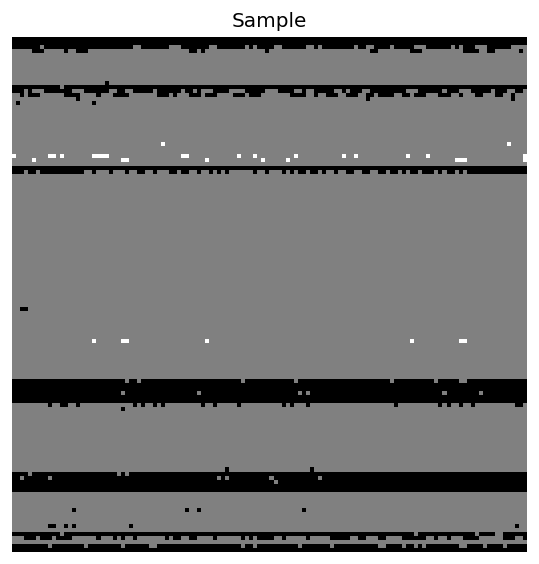
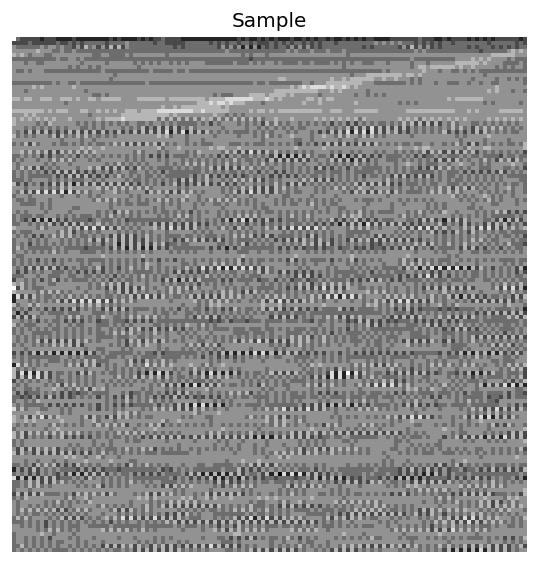
Refactor task handling in JSSP and SAT training; remove regression support and update related documentation

Changed region(s): [[0.0, 0.0603, 0.9796, 0.9947]]

diff --git a/src/training/jssp_tensors/model_builder.py b/src/training/jssp_tensors/model_builder.py
@@ -18,6 +18,7 @@ def build_cnn(
     conv_filters: list[int] = [32, 64, 128],
     conv_kernel_size: int = 3,
     pool_size: int = 2,
+    dropout_conv: float = 0.25,
     dropout_dense: float = 0.4,
     dense_units: int = 256,
     learning_rate: float = 1e-3,
@@ -25,19 +26,25 @@ def build_cnn(
     """
     Build and compile CNN for JSSP tensor inputs.
  
-    Architecture optimized for 10x10x2 inputs:
-    - Multiple Conv2D + MaxPooling2D blocks
-    - Flatten
-    - Dense layer with dropout
-    - Task-specific output layer
+    Architecture (CONVJSSP-inspired, no pooling):
+    - Alternating Conv2D and DepthwiseConv2D blocks
+      (Conv2D -> DepthwiseConv2D -> Conv2D -> DepthwiseConv2D -> ...)
+    - Spatial reduction (when needed) is performed via strides in the
+      depthwise convolutions instead of pooling (CONVJSSP philosophy).
+    - Dropout after convolutional blocks and dense layer for MC-dropout-based
+      uncertainty estimation.
+    - Task-specific output head:
+      * classification: softmax over solvers
+      * multilabel: sigmoid per solver
  
     Args:
         input_shape: Shape of input tensors (max_jobs, max_machines, n_channels).
         output_dim: Number of output units.
         task: Task type ('classification' or 'multilabel').
-        conv_filters: List of filter counts for Conv2D layers.
-        conv_kernel_size: Kernel size for convolutions.
-        pool_size: Pool size for MaxPooling2D.
+        conv_filters: List of filter counts for Conv2D blocks.
+        conv_kernel_size: Kernel size for Conv2D / DepthwiseConv2D.
+        pool_size: Kept for backward compatibility (ignored; no pooling used).
+        dropout_conv: Dropout rate applied after each depthwise block.
         dropout_dense: Dropout rate after dense layer.
         dense_units: Number of units in dense layer.
         learning_rate: Learning rate for Adam.
@@ -46,27 +53,59 @@ def build_cnn(
         Compiled Keras model.
     """
     if task not in ["classification", "multilabel"]:
-        raise ValueError(f"Invalid task '{task}' for jssp_tensors (only classification/multilabel supported)")
-
+        raise ValueError(
+            f"Invalid task '{task}' for jssp_tensors "
+            f"(only classification/multilabel supported)"
+        )
+ 
     inputs = tf.keras.Input(shape=input_shape, name="tensor_input")
     x = inputs
-
-    # Convolutional blocks
+ 
+    # Normalize convolutional dropout configuration to a per-block list
+    if isinstance(dropout_conv, (int, float)):
+        conv_dropout_rates = [float(dropout_conv)] * len(conv_filters)
+    else:
+        conv_dropout_rates = [float(r) for r in dropout_conv]
+        if len(conv_dropout_rates) < len(conv_filters):
+            conv_dropout_rates += [conv_dropout_rates[-1]] * (
+                len(conv_filters) - len(conv_dropout_rates)
+            )
+        elif len(conv_dropout_rates) > len(conv_filters):
+            conv_dropout_rates = conv_dropout_rates[: len(conv_filters)]
+ 
+    # Convolutional blocks: Conv2D followed by DepthwiseConv2D (no pooling).
+    # For early blocks we use stride=2 in the depthwise layer to reduce the
+    # spatial dimension; the last block keeps stride=1.
     for i, filters in enumerate(conv_filters):
+        # Standard Conv2D
         x = tf.keras.layers.Conv2D(
             filters,
             conv_kernel_size,
             padding="same",
             activation="relu",
-            name=f"conv_{i+1}",
+            name=f"conv_{2 * i + 1}",
         )(x)
-        x = tf.keras.layers.MaxPooling2D(pool_size, name=f"pool_{i+1}")(x)
-
+ 
+        # DepthwiseConv2D with optional downsampling
+        stride = 2 if i < len(conv_filters) - 1 else 1
+        x = tf.keras.layers.DepthwiseConv2D(
+            conv_kernel_size,
+            strides=stride,
+            padding="same",
+            activation="relu",
+            name=f"depthwise_conv_{2 * i + 2}",
+        )(x)
+ 
+        # Dropout for uncertainty estimation (Monte Carlo dropout)
+        x = tf.keras.layers.Dropout(
+            conv_dropout_rates[i], name=f"dropout_conv_{i+1}"
+        )(x)
+ 
     # Flatten and dense
     x = tf.keras.layers.Flatten(name="flatten")(x)
     x = tf.keras.layers.Dense(dense_units, activation="relu", name="dense")(x)
     x = tf.keras.layers.Dropout(dropout_dense, name="dropout_dense")(x)
-
+ 
     # Task-specific output
     if task == "classification":
         outputs = tf.keras.layers.Dense(
@@ -74,20 +113,20 @@ def build_cnn(
         )(x)
         loss = "sparse_categorical_crossentropy"
         metrics = ["accuracy"]
-    elif task == "multilabel":
+    else:  # multilabel
         outputs = tf.keras.layers.Dense(
             output_dim, activation="sigmoid", name="output_sigmoid"
         )(x)
         loss = "binary_crossentropy"
         metrics = [tf.keras.metrics.AUC(curve="PR", name="auc_pr")]
-
+ 
     model = tf.keras.Model(inputs=inputs, outputs=outputs, name=f"cnn_tensor_{task}")
     model.compile(
         optimizer=tf.keras.optimizers.Adam(learning_rate=learning_rate),
         loss=loss,
         metrics=metrics,
     )
-
+ 
     return model
 
 

diff --git a/src/training/jssp_images/data_utils.py b/src/training/jssp_images/data_utils.py
@@ -115,17 +115,17 @@ def build_labels(
 ) -> np.ndarray:
     """
     Generate label matrix/vector according to the task.
-
+ 
     Args:
         df: DataFrame with solver metrics
         solver_cols: Dictionary with 'runtime' and 'score' column lists
-        task: One of 'classification', 'multilabel', or 'regression'
-        use_score: Whether to use score columns for "best" solver
-        time_limit_s: Time limit for multilabel/regression tasks
-
+        task: One of 'classification' or 'multilabel'
+        use_score: Whether to use score columns for "best" solver (classification only)
+        time_limit_s: Time limit for multilabel task
+ 
     Returns:
-        Label array with shape [N] for classification or [N, C] for multi/regression
-
+        Label array with shape [N] for classification or [N, C] for multilabel
+ 
     Raises:
         ValueError: If task is not recognized
     """
@@ -135,23 +135,17 @@ def build_labels(
             idx, _ = argmin_runtime_or_score(r, solver_cols, use_score)
             y.append(idx)
         y = np.array(y, dtype=np.int32)
-
+ 
     elif task == "multilabel":
         rt_cols = solver_cols["runtime"]
         y = np.stack(
             [multilabel_targets(r, rt_cols, time_limit_s) for _, r in df.iterrows()],
             axis=0,
         )
-
-    elif task == "regression":
-        rt_cols = solver_cols["runtime"]
-        y = df[rt_cols].astype(float).values
-        # Impute NaN with large penalty (10x time limit)
-        y[~np.isfinite(y)] = time_limit_s * 10.0
-
+ 
     else:
         raise ValueError(f"Unknown task: {task}")
-
+ 
     return y
 
 
@@ -189,19 +183,19 @@ def make_dataset(
 ) -> tf.data.Dataset:
     """
     Create a tf.data.Dataset for training/validation.
-
+ 
     This function is used by both JSSP and SAT image training pipelines.
     To keep backward compatibility:
-
+ 
     - If ``target_h``/``target_w`` are provided, they take precedence.
     - Otherwise, if ``config`` is provided, values are read from
       ``config["data"]["image"]["target_height"/"target_width"]``.
     - As a last resort, defaults of 128×128 are used.
-
+ 
     Args:
         paths: List of paths to .npy image files
         labels: Label array
-        task: One of 'classification', 'multilabel', or 'regression'
+        task: One of 'classification' or 'multilabel'
         batch_size: Batch size
         shuffle: Whether to shuffle the dataset
         target_h: Target image height (optional; may be derived from config)

diff --git a/src/training/jssp_tensors/training_loop.py b/src/training/jssp_tensors/training_loop.py
@@ -122,7 +122,7 @@ def train_fold(
         if task == "classification":
             y_true_list.append(yb.numpy())
             y_pred_list.append(np.argmax(out, axis=1))
-        elif task == "multilabel":
+        else:  # multilabel
             y_true_list.append(yb.numpy())
             y_score_list.append(out)
             y_pred_list.append((out >= 0.5).astype(np.float32))
@@ -263,7 +263,9 @@ def run_kfold(
     fold_df = pd.DataFrame(fold_results)
     fold_df.to_csv(os.path.join(root_outdir, "metrics_per_fold.csv"), index=False)
      
-    # Primary metric to aggregate (accuracy for classification, F1-micro for multilabel)
+    # Primary metric to aggregate:
+    # - accuracy   for classification
+    # - f1_micro   for multilabel
     metric_key = {
         "classification": "accuracy",
         "multilabel": "f1_micro",

diff --git a/src/training/jssp_tensors/data_utils.py b/src/training/jssp_tensors/data_utils.py
@@ -100,7 +100,7 @@ def make_dataset(
     Args:
         paths: List of paths to .npy tensor files.
         labels: Labels array.
-        task: Task type ('classification', 'multilabel', 'regression').
+        task: Task type ('classification' or 'multilabel').
         batch_size: Batch size.
         shuffle: Whether to shuffle data.
         config: Configuration dictionary.
@@ -160,7 +160,7 @@ def build_labels(
         df: DataFrame with solver performance data.
         solver_cols: Dictionary with 'runtime' and 'score' column lists.
         task: Task type ('classification' or 'multilabel').
-        use_score: Whether to use score columns.
+        use_score: Whether to use score columns (classification only).
         time_limit: Time limit for multilabel task.
  
     Returns:

diff --git a/src/training/jssp_images/config_loader.py b/src/training/jssp_images/config_loader.py
@@ -42,7 +42,7 @@ def load_config(config_path: str) -> Dict[str, Any]:
         raise ValueError("Missing 'csv_path' in data configuration")
 
     # Validate training task
-    valid_tasks = ["classification", "multilabel", "regression"]
+    valid_tasks = ["classification", "multilabel"]
     task = config["training"].get("task")
     if task not in valid_tasks:
         raise ValueError(f"Invalid task '{task}'. Must be one of: {valid_tasks}")
